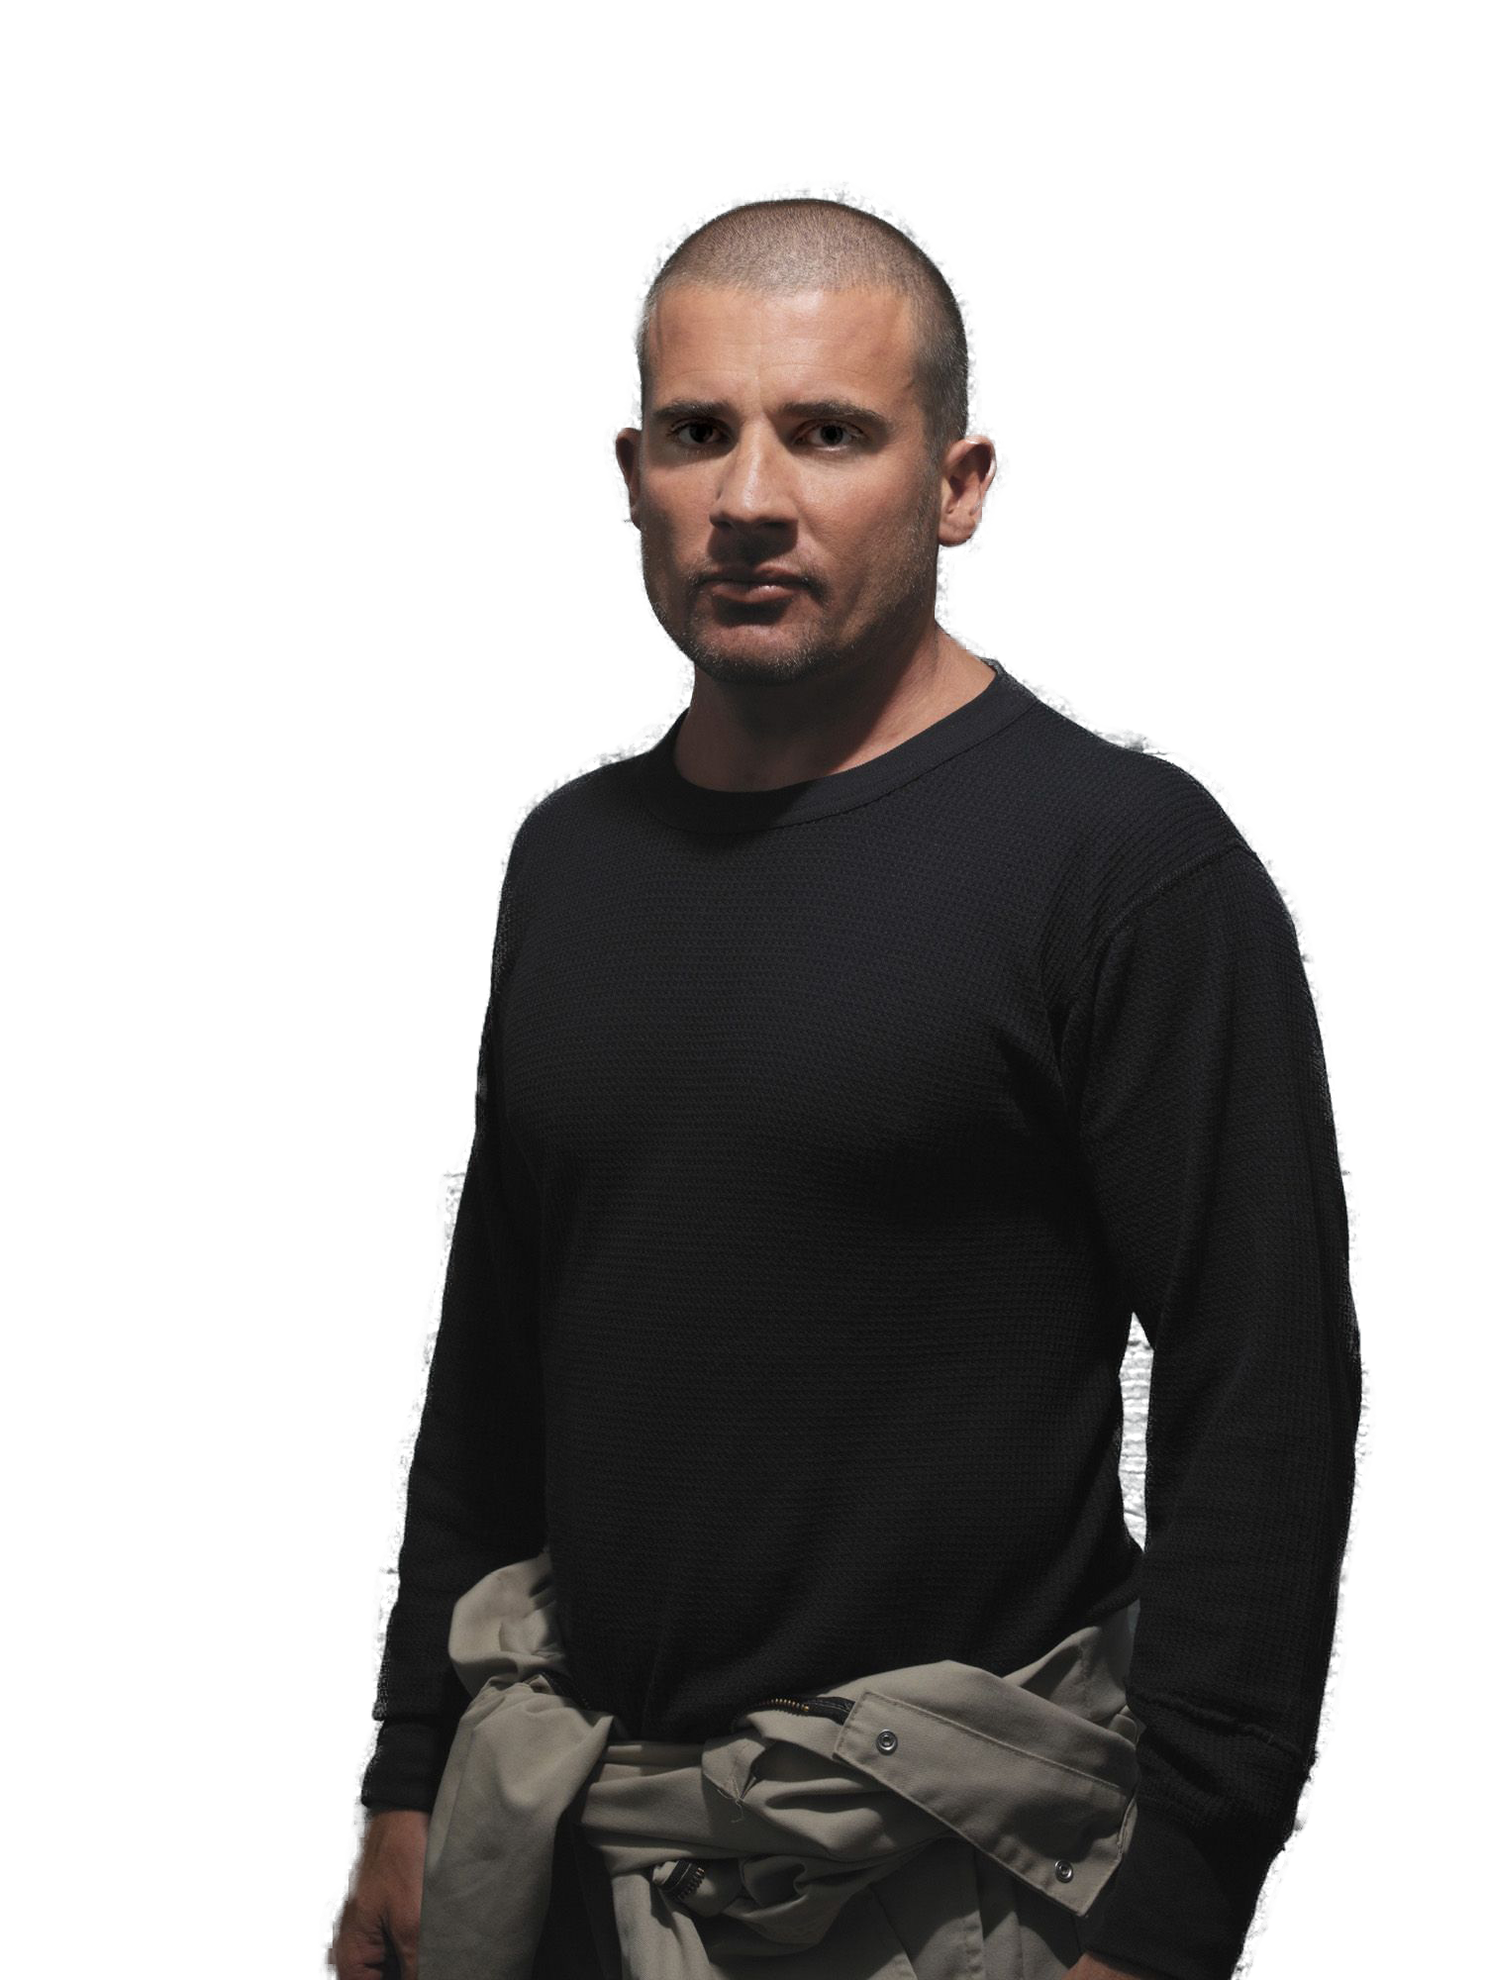
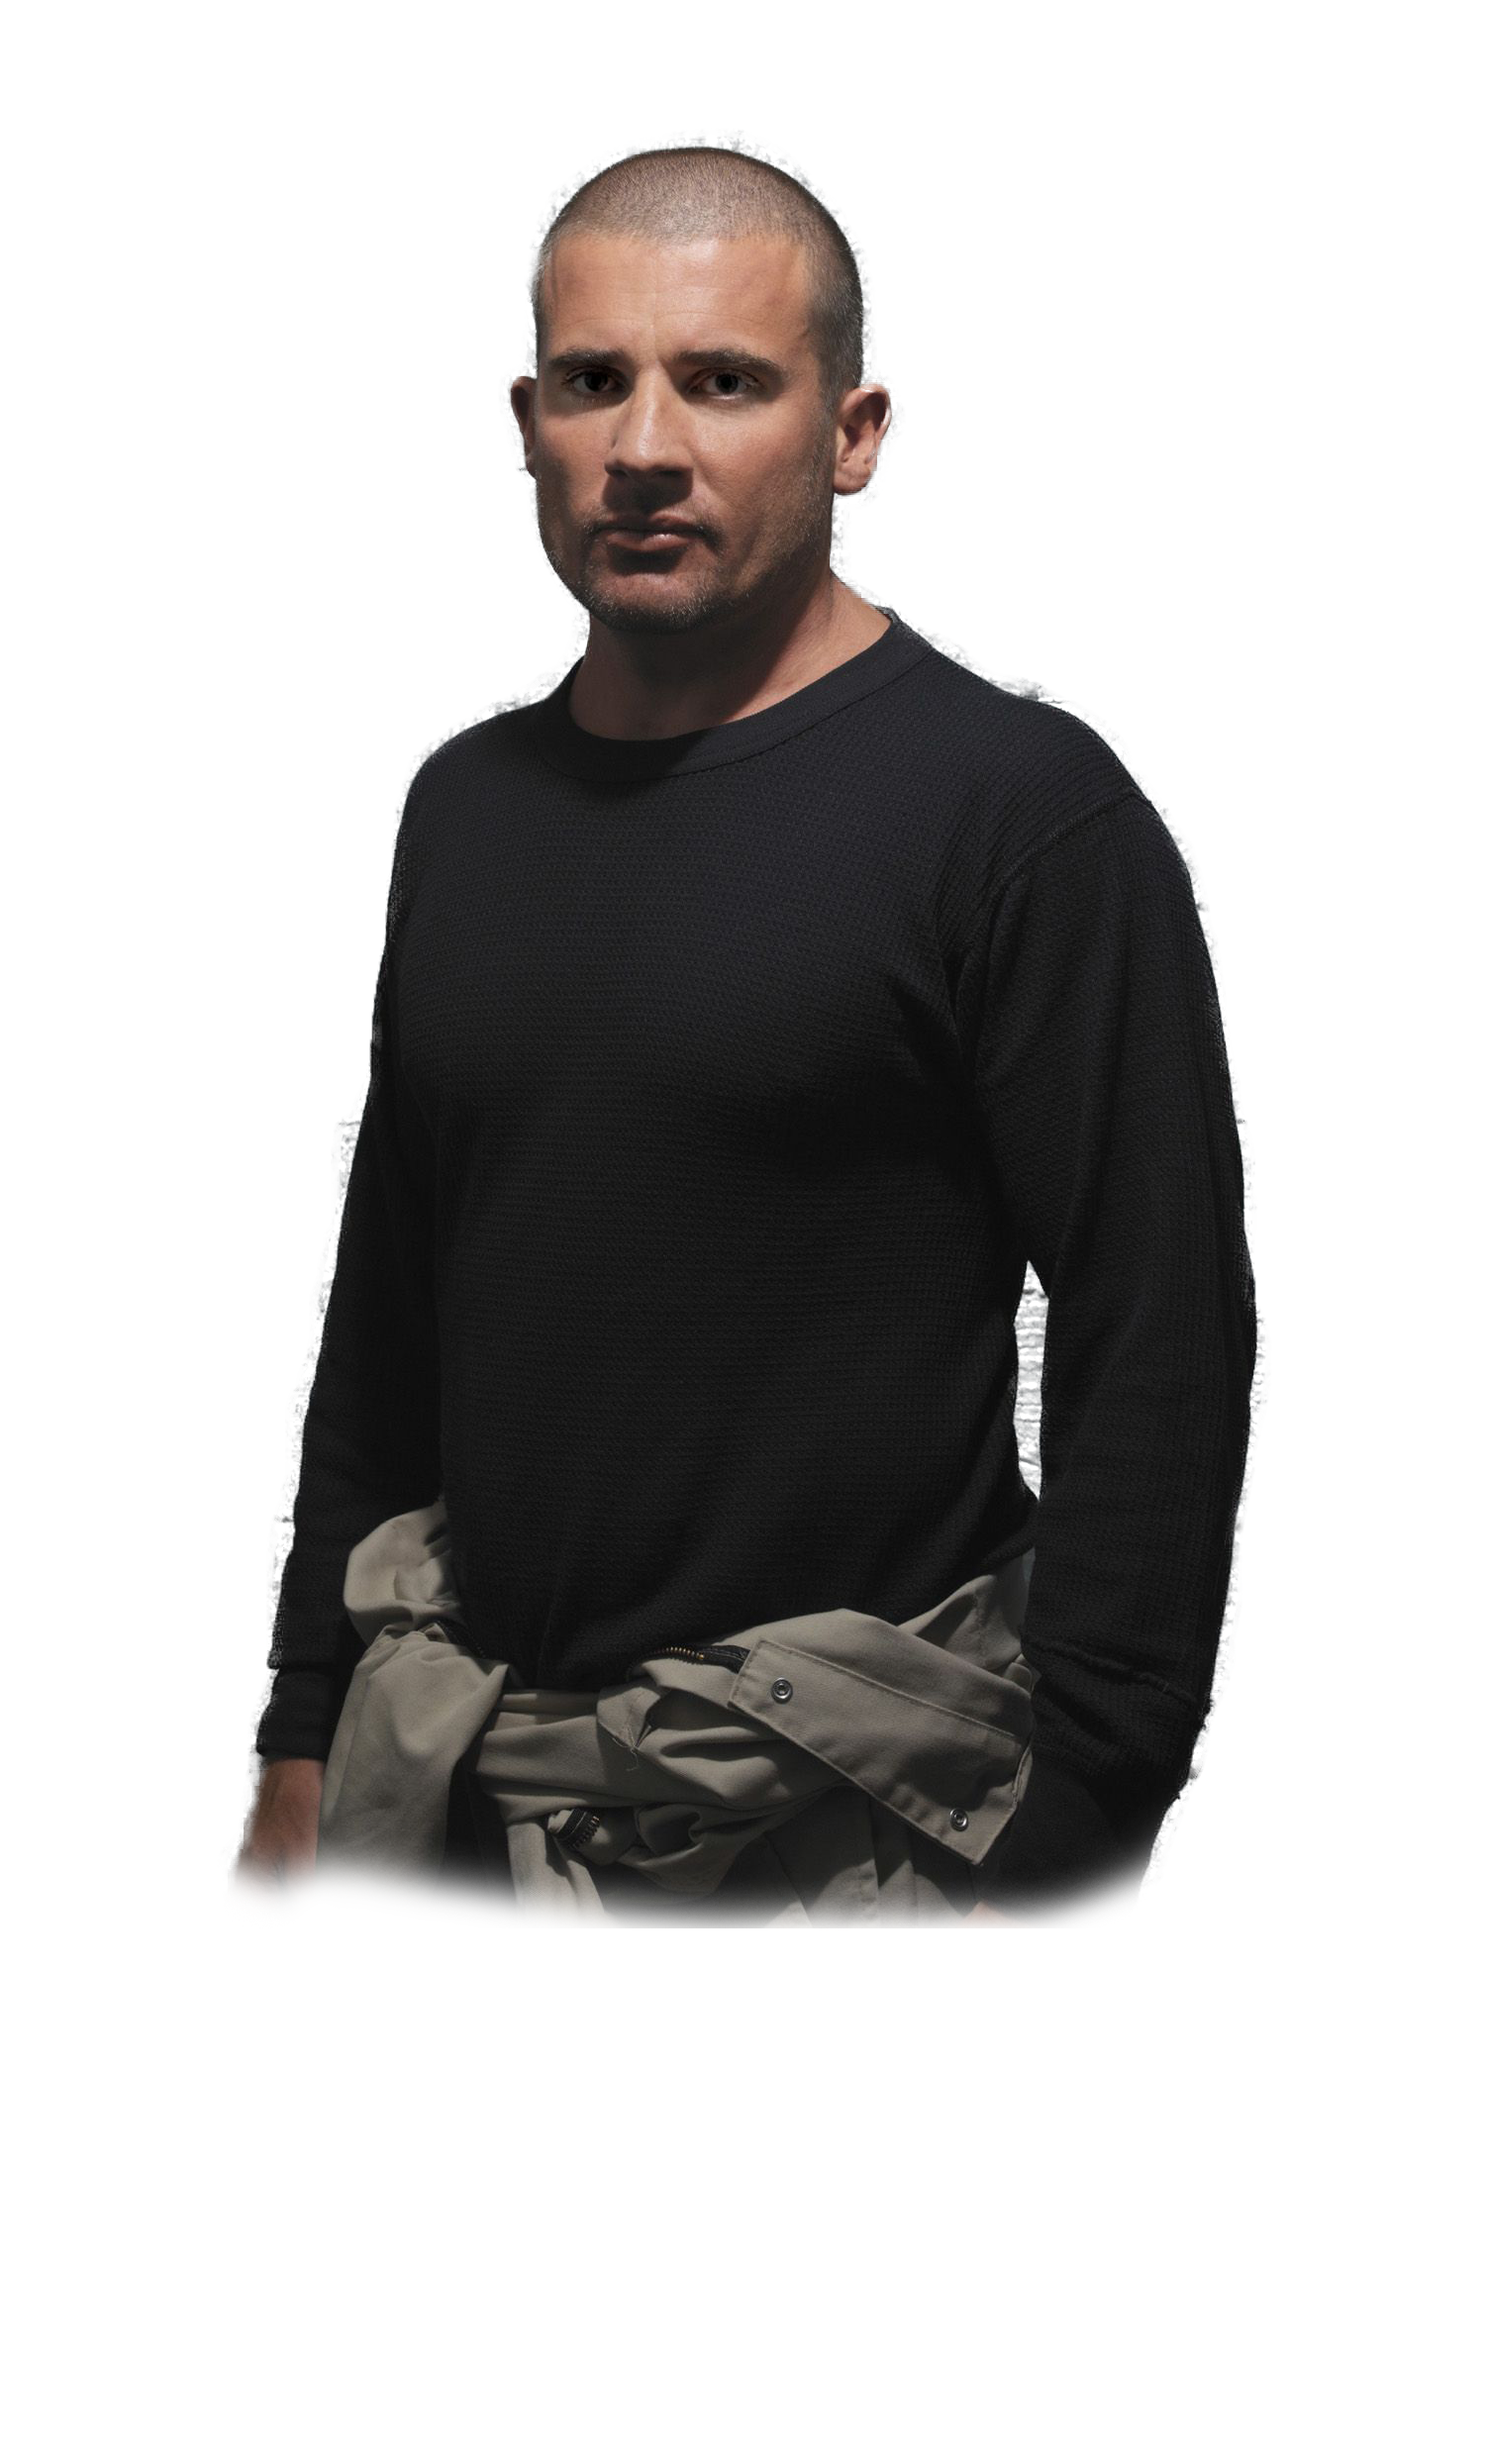
add new pics
some new pic size

diff --git a/index.html b/index.html
@@ -7,14 +7,17 @@
     <!-- CSS -->
     <link rel="stylesheet" href="css/main.css">
     <!-- CSS -->
-    <title>Prison Break Characters :.</title>
+    <title>Prison Break Characters</title>
 </head>
+
 <body>
     <header>
         <h1 class="hidden">The Best Chracters of Prison Break</h1>
         <img id="main-logo" img src="images/logo.png" alt="Prison Break Logo">
     </header>
+    
     <!-- images go here -->
+    
     <main>
         <nav id="character-nav">
             <ul class="characters">
@@ -25,6 +28,7 @@
                         <h5>Michael Scofield</h5>
                     </a>
                 </li>
+                
                 <li>
                     <a href="#lightBox2">
                         <div class="sprite" id="Linc"></div>
@@ -32,6 +36,7 @@
                         <h5>Lincoln Burrows</h5>
                     </a>
                 </li>
+
                 <li>
                     <a href="#lightBox3">
                         <div class="sprite" id="Sara"></div>
@@ -39,6 +44,7 @@
                         <h5>Sara Tancredi</h5>
                     </a>
                 </li>
+                
                 <li>
                     <a href="#lightBox4">               
                         <div class="sprite" id="T-bag"></div>
@@ -46,6 +52,7 @@
                         <h5>T-bag</h5>
                     </a>
                 </li>
+                
                 <li>
                     <a href="#lightBox5">
                         <div class="sprite" id="Mahone"></div>
@@ -53,6 +60,7 @@
                         <h5>Mahone</h5>
                     </a>
                 </li>
+                
                 <li>
                     <a href="#lightBox6">
                         <div class="sprite" id="Brad"></div>
@@ -64,15 +72,16 @@
         </nav>
 
         <article>
-            <h3>Choose Your Character!</h3>
-            <p>use your mouse to hover / click to discover more about each prisoner.</p>
+            <h3>Which prisoner do you like?</h3><br>
+            <p>Use your mouse to hover / Click to discover more about each prisoner.</p>
         </article>
     </main>
+    
     <footer class="sticky_footer">
         <h3>All images &copy; Prison Break</h3>
     </footer>
 
-    
+
 <!-- put the lightbox at the bottom of the stack (which its the top when it gets rendered)-->
 
 <section class="lightbox" id="lightBox">
@@ -111,10 +120,10 @@
     <article>
         <h3 class="lb_heading">Sara Tancredi</h3>
         <p class="lb_text">
-            Sara is shown in the series as a compassionate yet introverted doctor who treated each one of them with the same cordiality and respect. Given this fact, she has little sense of humour and is incorruptible. In the episode "The Rat", Sara's father questions her motive for helping Lincoln Burrows, to which she replies, "It's my job to advocate for [my patients]."[2] Sarah Wayne Callies, who portrays Sara Tancredi, remarks that the character "feels a certain level of responsibility to these guys. Partly because who her father is... she's the kind of person who would rather take a stand and sleep well at night than have a peaceful family."
+            Sara is shown in the series as a compassionate yet introverted doctor who treated each one of them with the same cordiality and respect. In the episode "The Rat", Sara's father questions her motive for helping Lincoln Burrows, to which she replies, "It's my job to advocate for [my patients]." Sarah Wayne Callies, who portrays Sara Tancredi, remarks that the character "feels a certain level of responsibility to these guys. Partly because who her father is... "
         </p>
         <p class="lb_text">
-            In the second season, Sara becomes part of the conspiracy plot of the show after her involvement in Michael and Lincoln's escape, and her father's later pursuit of information concerning Lincoln's case. She is continuously chased by covert agents after the death of her father in "Buried". Sara later confides in Michael in episode "Chicago" that the two things keeping her going are her feelings for him and that she wants to seek justice for her father's death. The character is described by Jay Bobbin from Zap2it.com as "gutsy",[4] while TV Guide's Maya Schechter remarks that Sara is "one tough cookie".[5] Regarding her character's change in the second season, Callies says, "She's just someone who has really rushed at life and absorbed experience with real enthusiasm. She's getting a lot more than she bargained for right now, and I certainly don't think she'll be the same person after this."
+            In the second season, Sara becomes part of the conspiracy plot of the show after her involvement in Michael and Lincoln's escape, and her father's later pursuit of information concerning Lincoln's case. She is continuously chased by covert agents after the death of her father in "Buried".
         </p>
     </article>
 </section>
@@ -127,10 +136,10 @@
     <article>
         <h3 class="lb_heading"></T-bag></h3>
         <p class="lb_text">
-            Despite being despised by the other convicts for his heinous crimes and affiliation with the Alliance for Purity, T-Bag is quite eloquent and many women find him charismatic and charming. Knepper comments that, "T-Bag's not crazy. He knows exactly what he's doing. He's not going to make himself stupid."[1] In a separate interview, Knepper says, "I never play him like a stereotypical racist or redneck. He's actually quite cunning and smart."[2] He likens the character to "Truman Capote without a degree."
+            Despite being despised by the other convicts for his heinous crimes and affiliation with the Alliance for Purity, T-Bag is quite eloquent and many women find him charismatic and charming. 
         </p>
         <p class="lb_text">
-            As an adult, T-Bag starts committing more serious crimes, such as battery, assault, attempted murder, murder, rape, and kidnapping. It is also insinuated that he is a pedophile, and it is implied once in passing that he is also a necrophiliac. The character's sexual appetite ranges from in general, young men and women, adolescents, and children. The character once seduced a transgender woman within the prison at the behest of Sucre so as to obtain a pair of female undergarments necessary for a ruse; yet previously mocked the individual, stating 'I may be social, but that's the boundary line even I won't cross.' When asked about the character's sexuality, Knepper stated, "We're not passing judgment. We're not trying to get these people off the hook. T-Bag's not a homosexual. He's a raw animal. He'd [sleep with] anything."
+            As an adult, T-Bag starts committing more serious crimes, such as battery, assault, attempted murder, murder, rape, and kidnapping. It is also insinuated that he is a pedophile, and it is implied once in passing that he is also a necrophiliac. The character's sexual appetite ranges from in general, young men and women, adolescents, and children. 
         </p>
     </article>
 </section>
@@ -146,7 +155,7 @@
             Mahone has certain things in his past, as far as what he's done in the service of his country, things he's done around the world—he's starting to hear footsteps from all of that. It doesn't throw him off his game at all but the sum total of his life does begin to present itself.
         </p>
         <p class="lb_text">
-            Although not a major characteristic, Mahone is depicted as remarkably good at unarmed combat (probably due to his military background). It is surprising when Lincoln attempts to kill him, he rapidly masters him and tries to choke him; Lincoln only manages to master him by squeezing his previous gunshot wound, only to be overcome again and have Mahone's gun on him. When one of Lechero's men attempts to stab Michael at the beginning of season three, Mahone stops him and breaks his neck in seconds. He is also the only one T-Bag believed could kill Sammy, but when the tunnel crumbles on top of Sammy Mahone rapidly masters his men. In season four when Christina Rose orders her bodyguard to kill Mahone, he beats both of them down within seconds.
+            It is surprising when Lincoln attempts to kill him, he rapidly masters him and tries to choke him; Lincoln only manages to master him by squeezing his previous gunshot wound, only to be overcome again and have Mahone's gun on him. When one of Lechero's men attempts to stab Michael at the beginning of season three, Mahone stops him and breaks his neck in seconds. He is also the only one T-Bag believed could kill Sammy, but when the tunnel crumbles on top of Sammy Mahone rapidly masters his men.
         </p>
     </article>
 </section>
@@ -159,10 +168,10 @@
     <article>
         <h3 class="lb_heading">Brad</h3>
         <p class="lb_text">
-            As one of the principal characters of Prison Break, he has been featured in the first four seasons of the series. The character was introduced in the series' pilot as Captain Brad Bellick, the leader of the correctional officers at Fox River State Penitentiary. Originally, he was the main antagonist of Michael Scofield and the escape team. In the second season, the character's role changes as the main plot moves away from the prison setting, which allows him to remain as one of the main characters in the series.
+            The character was introduced in the series' pilot as Captain Brad Bellick, the leader of the correctional officers at Fox River State Penitentiary. Originally, he was the main antagonist of Michael Scofield and the escape team. In the second season, the character's role changes as the main plot moves away from the prison setting, which allows him to remain as one of the main characters in the series.
         </p>
         <p class="lb_text">
-            While not possessing the educational rigour as Scofield or Agent Mahone, he has shown himself to be highly cunning and even been able to outsmart Scofield on numerous occasions and he must not be underestimated, and in Season 2 was able to track down several of the Fox River escapees and travel across America on a low budget. In season three, he is a prisoner in the Panamanian prison, Sona. In season four, Bellick became a member of Scofield's team dedicated to locating Scylla, but sacrificed his life to protect their mission.
+            While not possessing the educational rigour as Scofield or Agent Mahone, he has shown himself to be highly cunning and even been able to outsmart Scofield on numerous occasions and he must not be underestimated. In season three, he is a prisoner in the Panamanian prison, Sona. In season four, Bellick became a member of Scofield's team dedicated to locating Scylla, but sacrificed his life to protect their mission.
         </p>
     </article>
 </section>

diff --git a/css/main.css b/css/main.css
@@ -11,8 +11,8 @@ html, body { height: 100% }
 
 body { 
   font-family: sans-serif;
-  background-color: rgb(7, 63, 89);
-  color: rgb(241, 246, 247);
+  background-color: rgb(255, 4, 17);
+  color: rgb(251, 251, 251);
   background-image: url('../images/denim.png');
 }
 
@@ -25,12 +25,12 @@ header {
   text-align: center;
 }
 
-#main-logo {width: 500px; padding: 10px 0; }
+#main-logo {width: 400px; padding: 10px 0; }
 
 /* main section style */
 #character-nav { 
   text-align: center;
-  background-color: #03253aa6;
+  background-color:rgb(4, 52, 61);
 
   /* add a background image to the nav element */
   background-image: url('../images/foxriver_art_pb_mob_01.jpg');
@@ -105,7 +105,7 @@ footer{
   top: 100%;
 
   height: 80px;
-  background-color: rgb(40,37,37);
+  background-color:rgb(2, 33, 45);
 
 }
 
@@ -121,7 +121,7 @@ footer{
   top: 0;
   left: 0;
 
-  background-color: rgba(0,0, 0, 0.85 );
+  background-color: rgba(100, 99, 99, 0.85);
   background-repeat: no-repeat;
   background-position: 40px bottom;
   background-size: 55vh;
